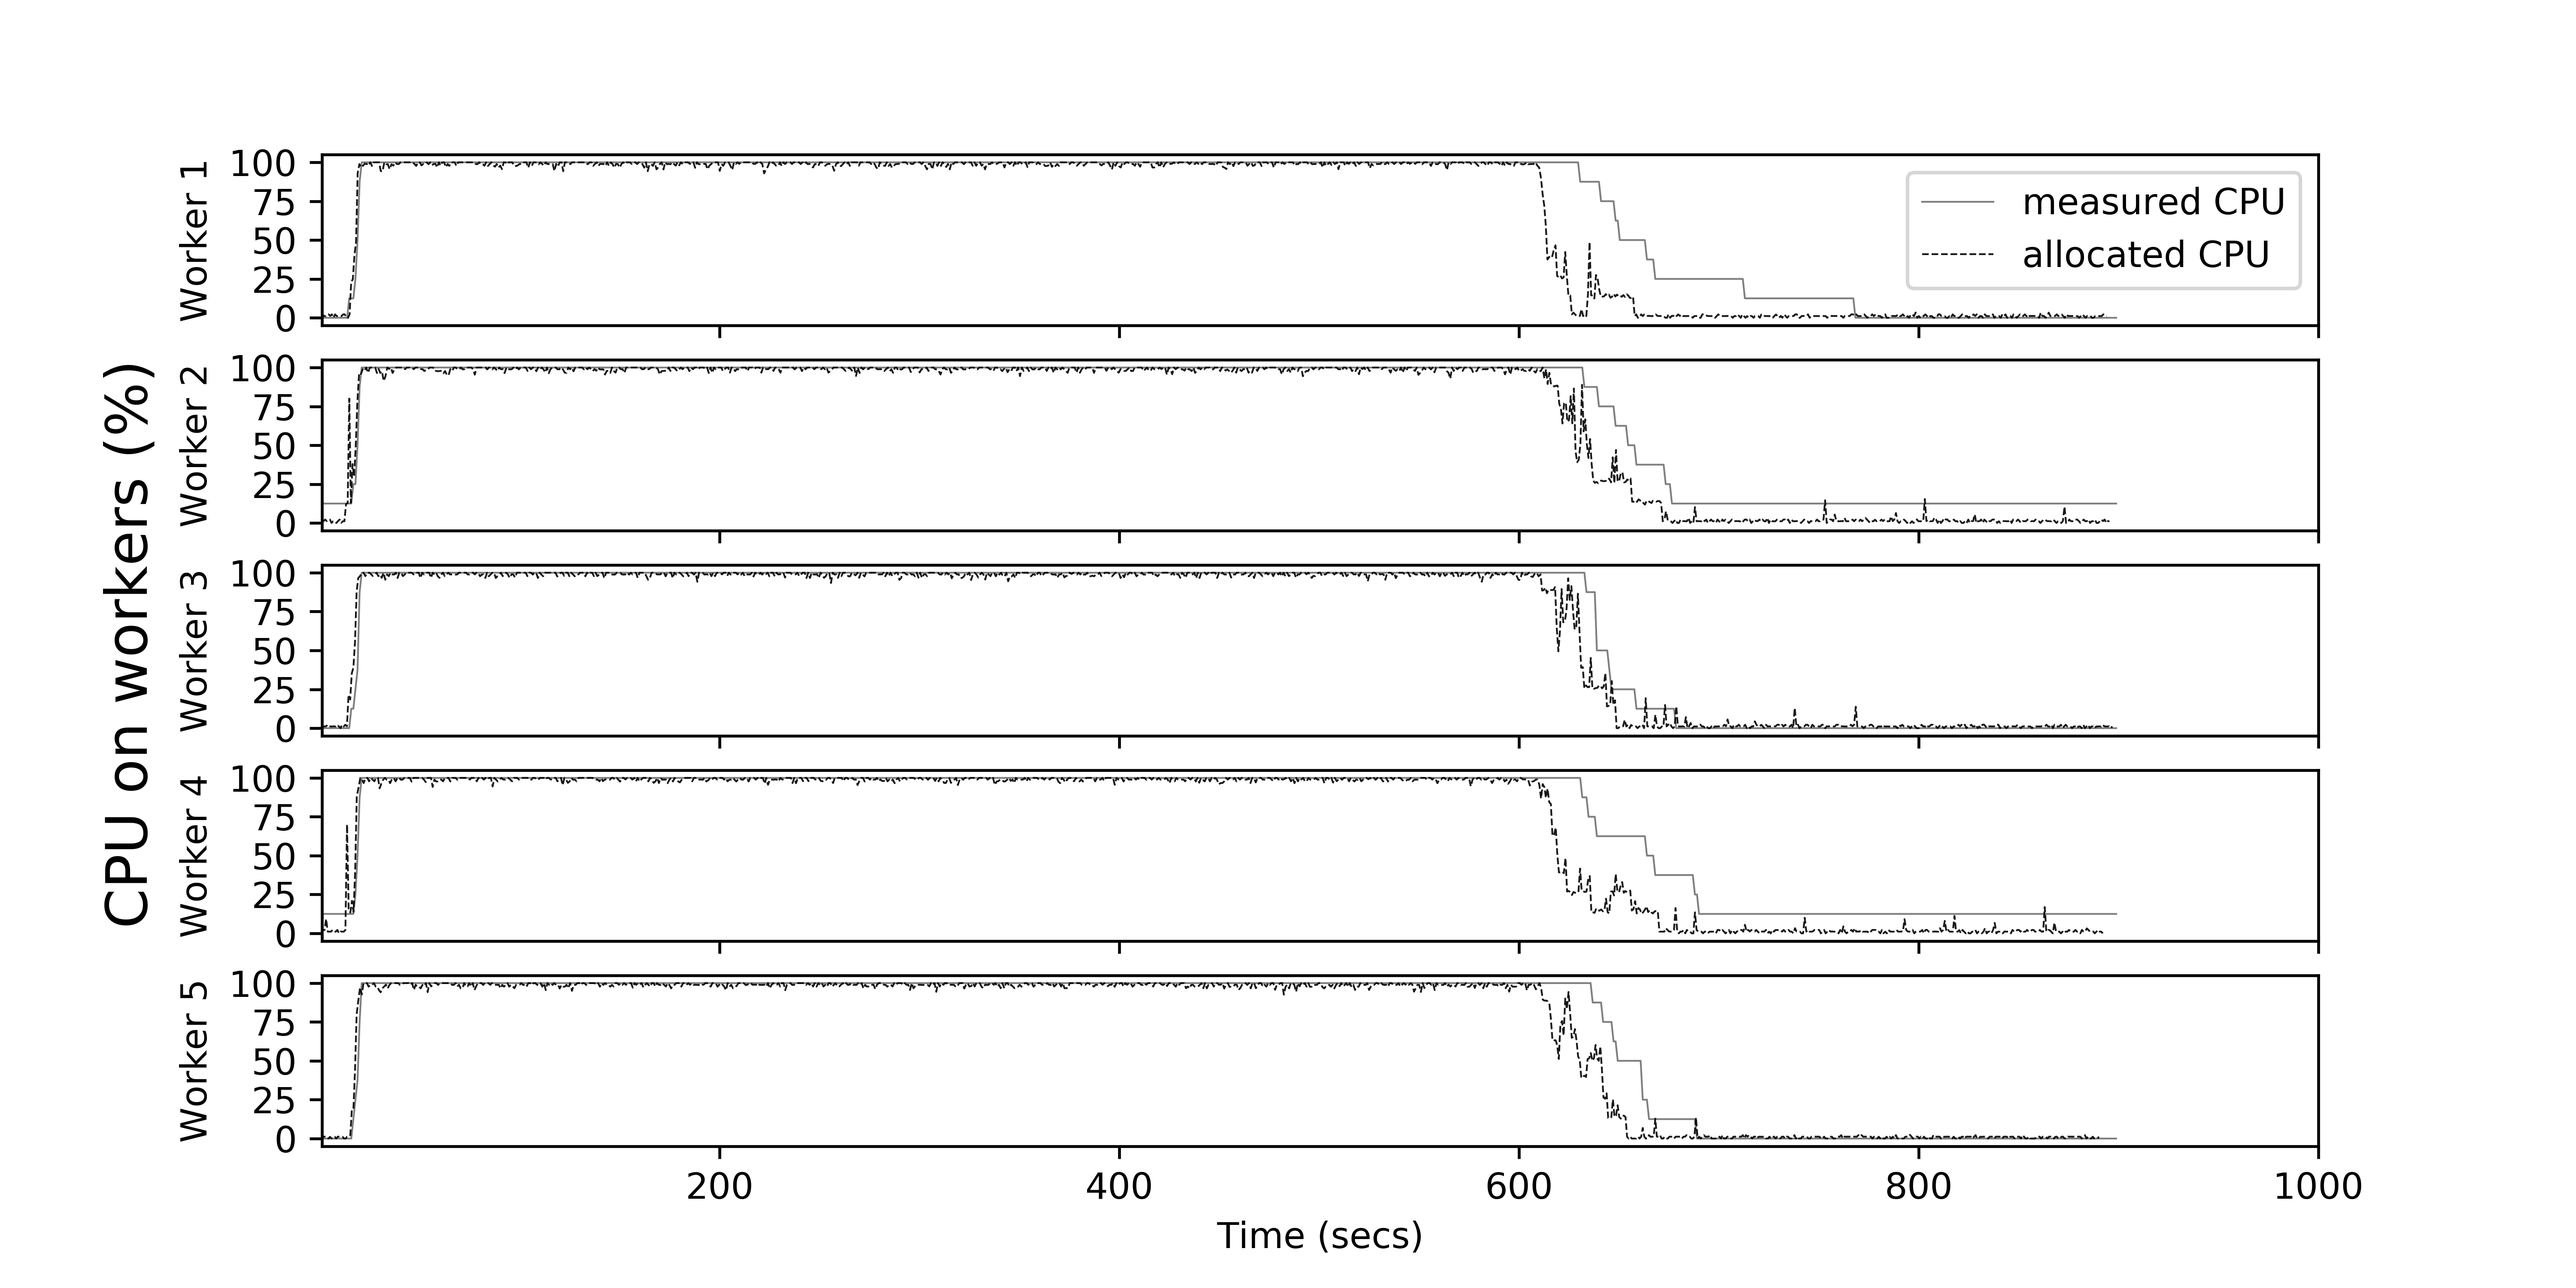
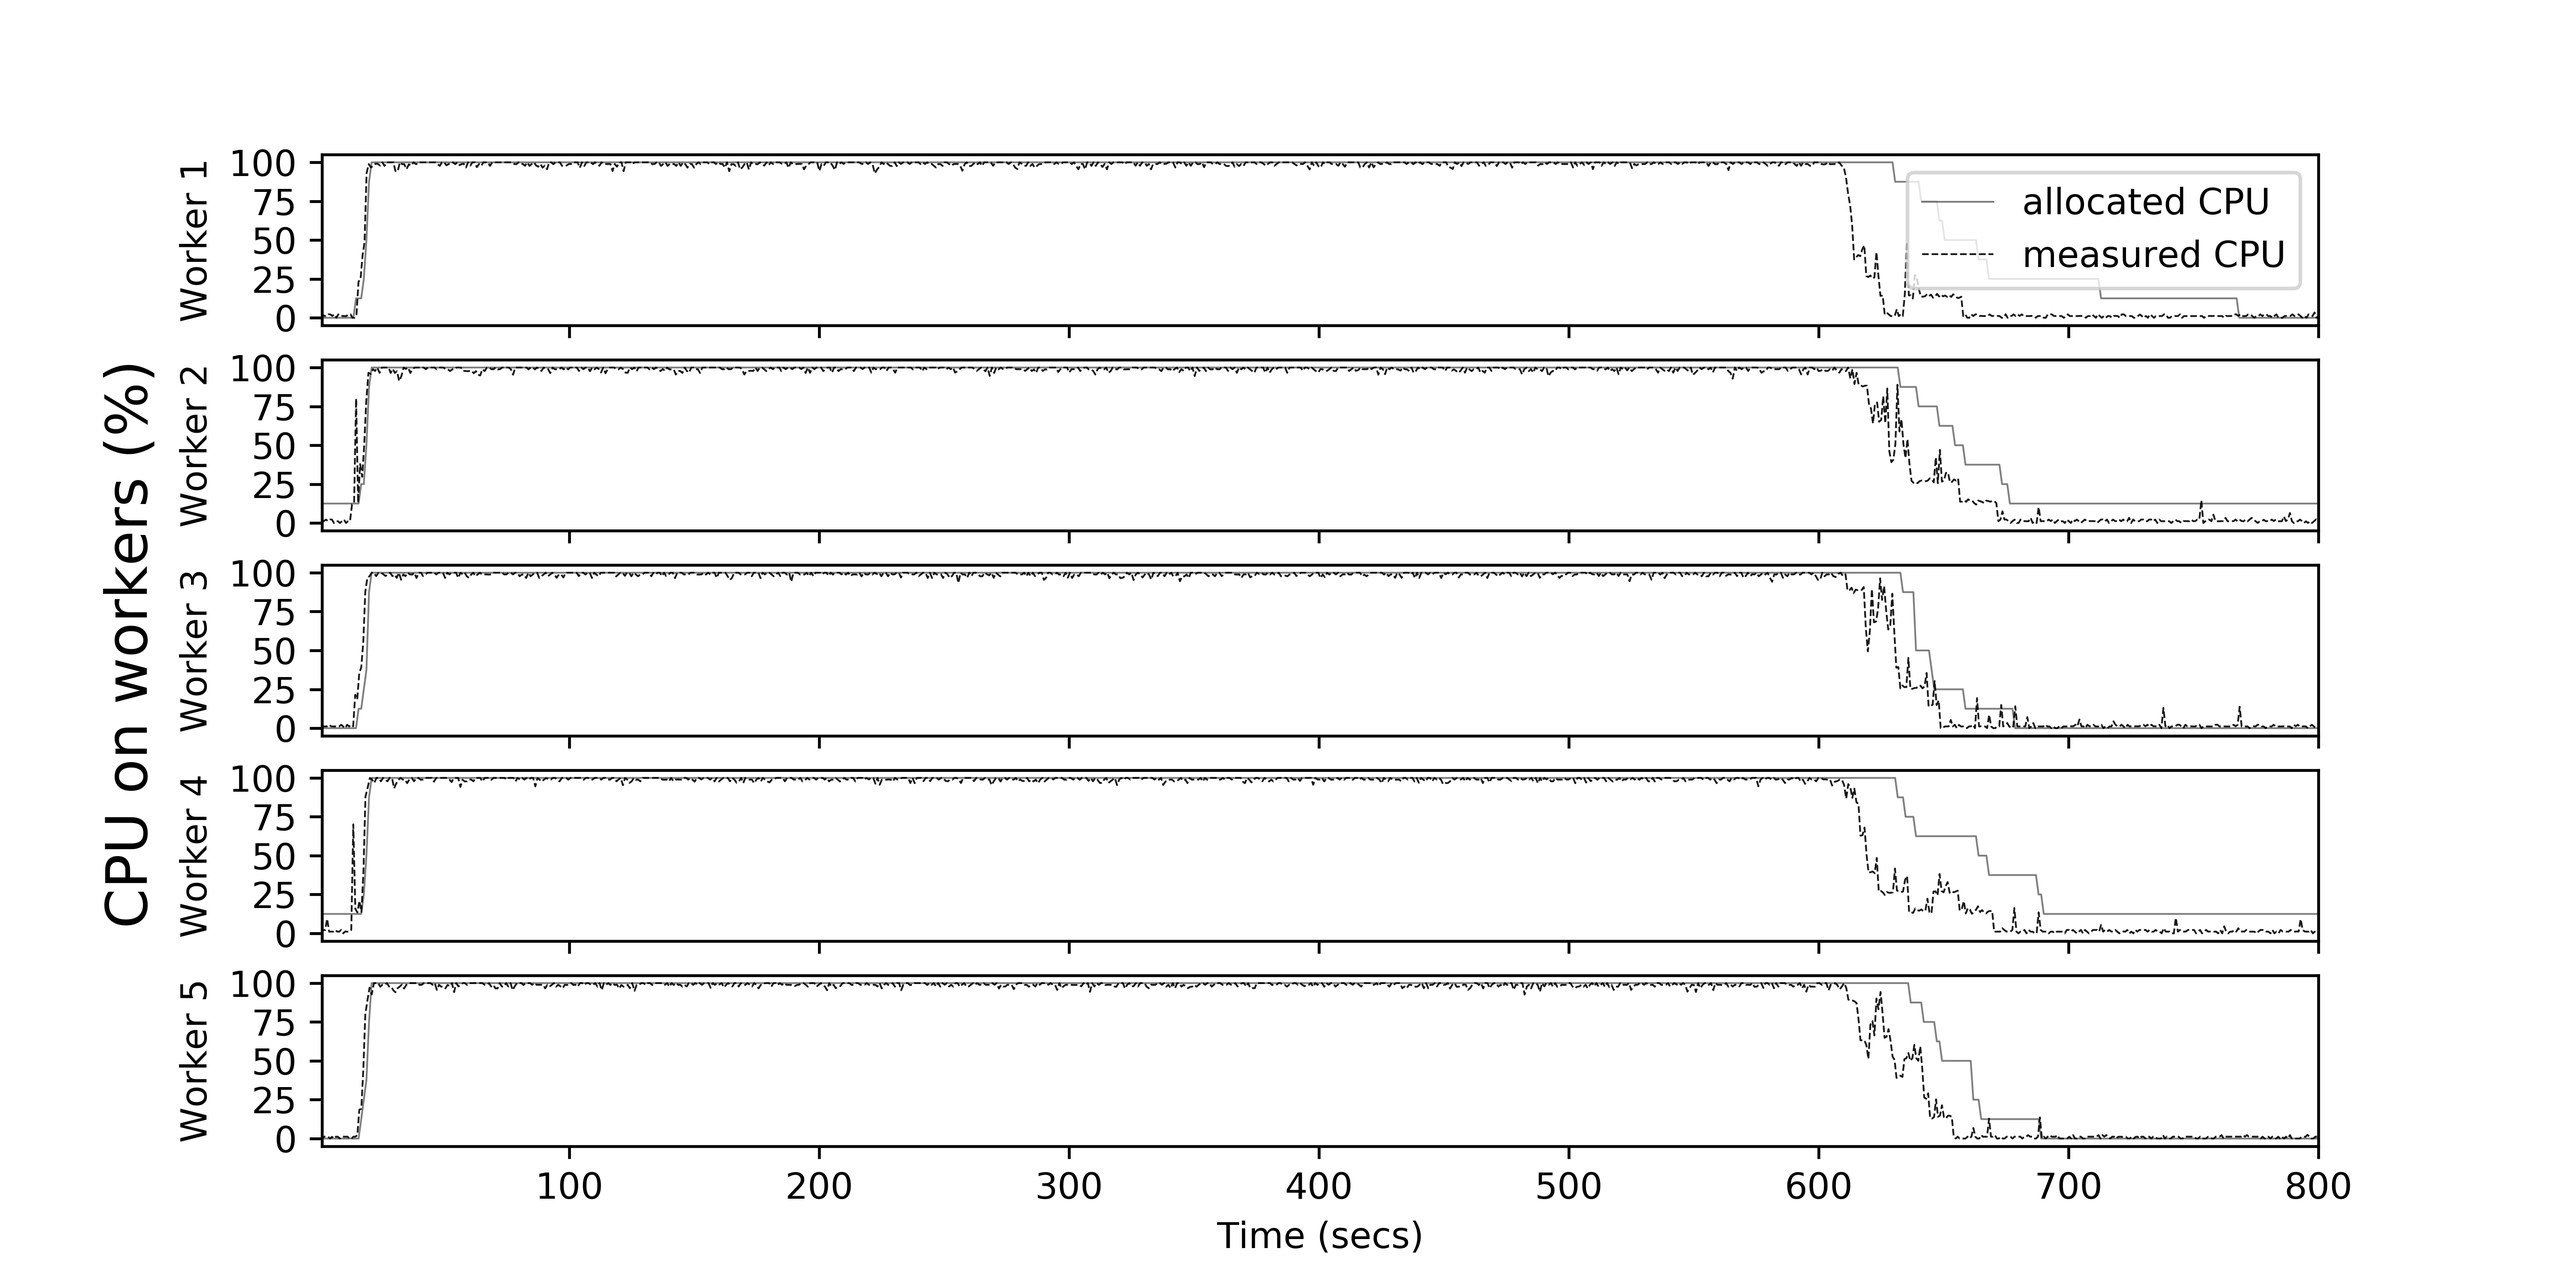
plot labels swap fix

diff --git a/spark/analysis-per-worker.py b/spark/analysis-per-worker.py
@@ -38,9 +38,9 @@ for worker_id, axes in enumerate(axeses):
 
     cpu_data_np = np.array(cpu_data[worker_id])
 
-    axes.plot(cores_data_np[:, 0] - start_ts, cores_data_np[:, 1 + worker_id] / 8, label='measured CPU', linestyle="-", lw=0.5, color="black", alpha=0.5)
+    axes.plot(cores_data_np[:, 0] - start_ts, cores_data_np[:, 1 + worker_id] / 8, label='allocated CPU', linestyle="-", lw=0.5, color="black", alpha=0.5)
     # Spark Executor Cores (5x SSC.XLARGE)
-    axes.plot(cpu_data_np[:, 0] - start_ts, cpu_data_np[:, 1], label='allocated CPU', linestyle="--", lw=0.5, color="black", alpha=0.9)
+    axes.plot(cpu_data_np[:, 0] - start_ts, cpu_data_np[:, 1], label='measured CPU', linestyle="--", lw=0.5, color="black", alpha=0.9)
 
     plt.xlabel('Time (secs)')
     plt.yticks(np.arange(0, 1.01, step=0.25), np.arange(0, 101, step=25))
